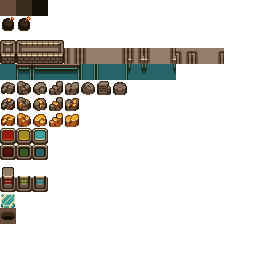
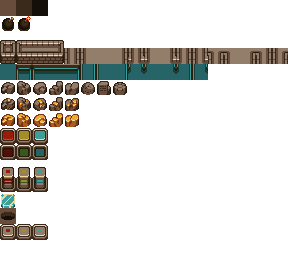
updated tile types

diff --git a/MiniJam32Game/Code/Level/Tile/TileData.cs b/MiniJam32Game/Code/Level/Tile/TileData.cs
@@ -105,6 +105,16 @@ namespace BPO.Minijam32.Level.Tile
             PassableWallRoofLeft = 60,
             PassableWallRoofMiddle = 61,
             PassableWallRoofRight = 62,
+
+            //63-65: Color-coded wall tops (passable)
+            ColorWallTopRed = 63,
+            ColorWallTopYellow = 64,
+            ColorWallTopBlue = 65,
+
+            //66-68: Wall remainders (passable)
+            ColorWallRemainderRed = 66,
+            ColorWallRemainderYellow = 67,
+            ColorWallRemainderBlue = 68,
         }
 
         public Type type { get; private set; }
@@ -141,11 +151,12 @@ namespace BPO.Minijam32.Level.Tile
         public static bool IsSolid(Type type)
         {
             return
-                (int)type >= (int)Type.BombOne && (int)type <= (int)Type.WallBricksTopHighCornerRight ||
+                ((int)type >= (int)Type.BombOne && (int)type <= (int)Type.WallBricksTopHighCornerRight) ||
                 IsDestructable(type) ||
                 IsWater(type) ||
                 type == Type.FloorDirtMediumPlain ||
-                type == Type.FloorDirtDark;
+                type == Type.FloorDirtDark ||
+                ((int)type >= (int)Type.ColorWallRed && (int)type <= (int)Type.ColorWallBlue);
         }
 
         /// <summary>
@@ -163,7 +174,10 @@ namespace BPO.Minijam32.Level.Tile
         public static bool IsUpperRoof(Type type)
         {
             return
-                ((int)type >= (int)Type.PassableWallRoofComplete && (int)type <= (int)Type.PassableWallRoofRight);
+                ((int)type >= (int)Type.PassableWallRoofComplete && (int)type <= (int)Type.PassableWallRoofRight) ||
+                type == Type.ColorWallTopRed ||
+                type == Type.ColorWallTopBlue ||
+                type == Type.ColorWallTopYellow;
         }
 
         /// <summary>

diff --git a/MiniJam32Game/Code/Level/Tile/TileDrawer.cs b/MiniJam32Game/Code/Level/Tile/TileDrawer.cs
@@ -93,6 +93,14 @@ namespace BPO.Minijam32.Level.Tile
                 { TileData.Type.PassableWallRoofLeft, new Vector2(TileData.TileSize.X * 1, TileData.TileSize.Y * 2) },
                 { TileData.Type.PassableWallRoofMiddle, new Vector2(TileData.TileSize.X * 2, TileData.TileSize.Y * 2) },
                 { TileData.Type.PassableWallRoofRight, new Vector2(TileData.TileSize.X * 3, TileData.TileSize.Y * 2) },
+
+                { TileData.Type.ColorWallTopRed, new Vector2(TileData.TileSize.X * 0, TileData.TileSize.Y * 10) },
+                { TileData.Type.ColorWallTopYellow, new Vector2(TileData.TileSize.X * 1, TileData.TileSize.Y * 10) },
+                { TileData.Type.ColorWallTopBlue, new Vector2(TileData.TileSize.X * 2, TileData.TileSize.Y * 10) },
+
+                { TileData.Type.ColorWallRemainderRed, new Vector2(TileData.TileSize.X * 0, TileData.TileSize.Y * 14) },
+                { TileData.Type.ColorWallRemainderYellow, new Vector2(TileData.TileSize.X * 1, TileData.TileSize.Y * 14) },
+                { TileData.Type.ColorWallRemainderBlue, new Vector2(TileData.TileSize.X * 2, TileData.TileSize.Y * 14) },
             };
         }
 
